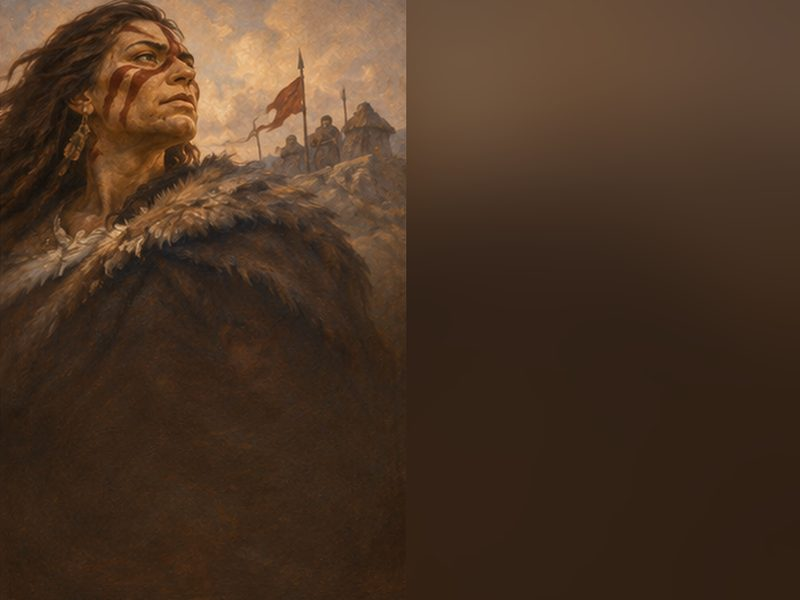
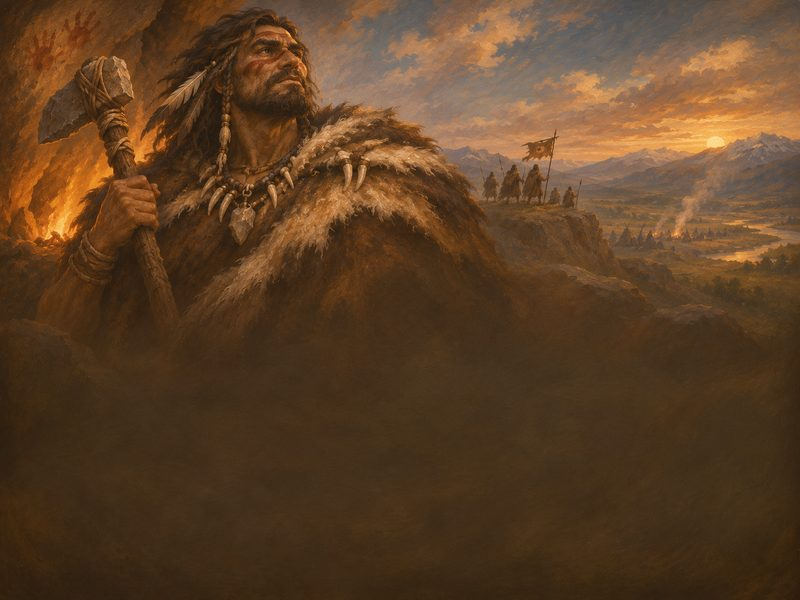
v1.66.2: Dawn new First Conqueror picture
Claude-Session: https://claude.ai/code/session_01JVATdQRTjHvh6ACghck5CM

diff --git a/CHANGELOG.md b/CHANGELOG.md
@@ -2,6 +2,10 @@
 
 Newest first. Versions from 1.x on are the combined app (Root and Rune + Weather generator).
 
+## v1.66.2 (combined app)
+
+- Dawn: new picture for The First Conqueror.
+
 ## v1.66.1 (combined app)
 
 - Dawn: on cards with a picture, the text now sits at the bottom, on the dark part of the picture.
